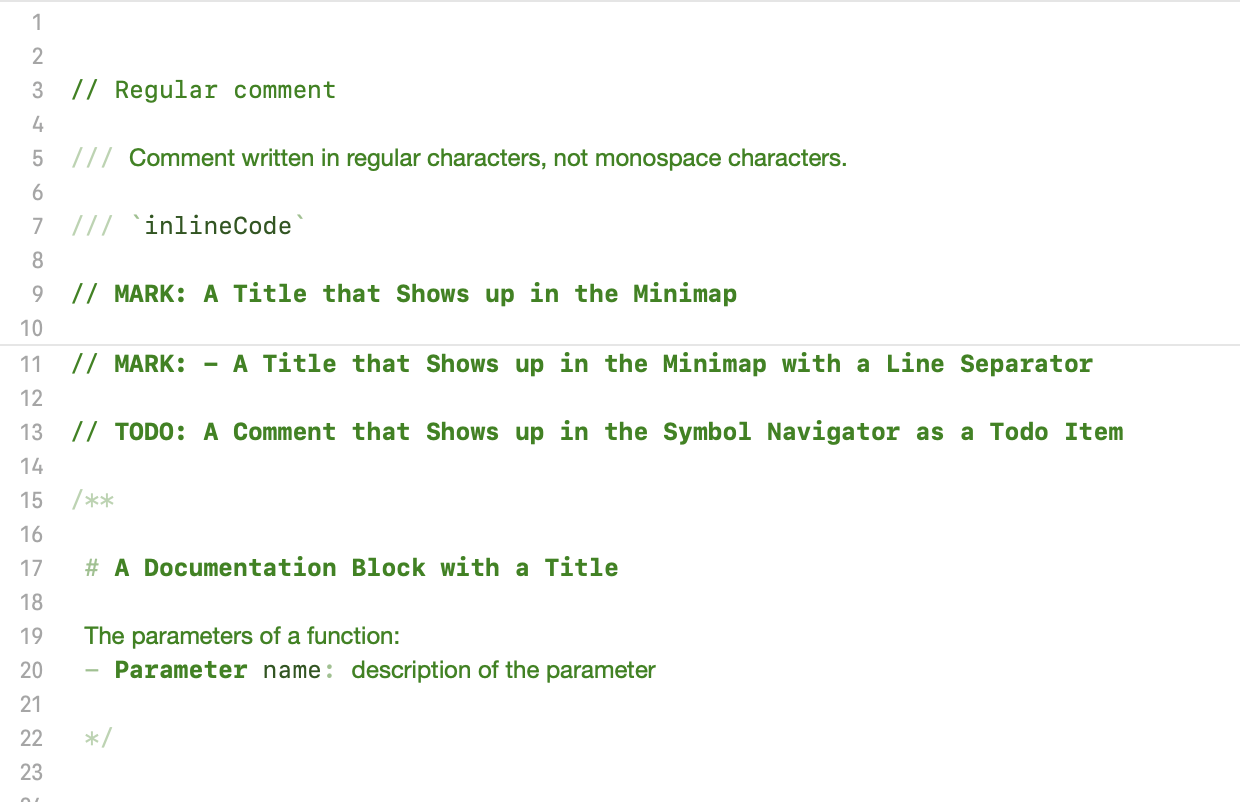
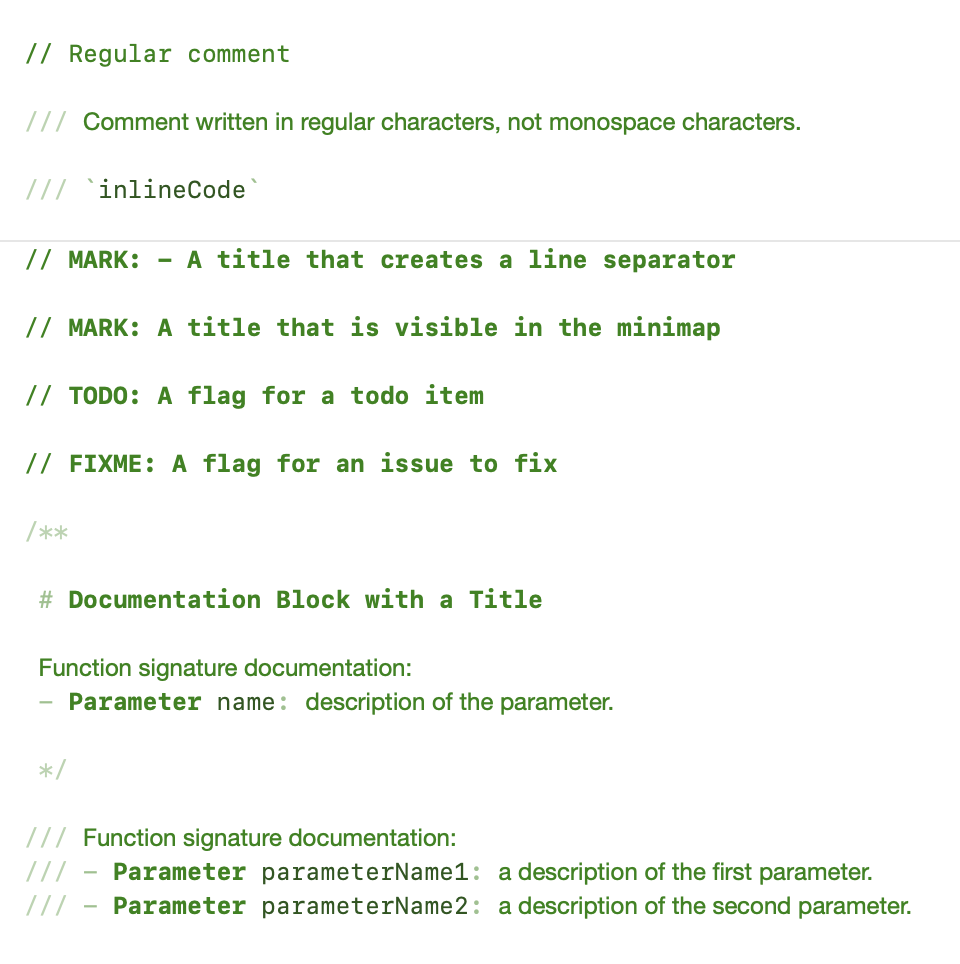
Xcode comments update

diff --git a/README.md b/README.md
@@ -872,7 +872,7 @@ func setupGestureRecognizers(in view: SKView) {
 
 ## Xcode Comments
 
-*9 April 2024, updated 25 January 2025*
+*9 April 2024, updated 16 August 2025*
 
 Xcode provides various ways to style and organize code comments:
 
@@ -883,20 +883,26 @@ Xcode provides various ways to style and organize code comments:
 
 /// `inlineCode`
 
-// MARK: A Title that Shows up in the Minimap
+// MARK: - A title that creates a line separator
 
-// MARK: - A Title that Shows up in the Minimap with a Line Separator
+// MARK: A title that is visible in the minimap
 
-// TODO: A Comment that Shows up in the Symbol Navigator as a Todo Item
+// TODO: A flag for a todo item
+
+// FIXME: A flag for an issue to fix
 
 /**
  
- # A Documentation Block with a Title
+ # Documentation Block with a Title
  
- The parameters of a function:
- - Parameter name: description of the parameter
+ Function signature documentation:
+ - Parameter name: description of the parameter.
  
  */
+ 
+/// Function signature documentation:
+/// - Parameter parameterName1: a description of the first parameter.
+/// - Parameter parameterName2: a description of the second parameter.
 ```
 <p align="center">
 <img src="Screenshots/Xcode - Comments.png" alt="Xcode - Comments" style="width:100%;" />
@@ -1459,6 +1465,7 @@ Sorting a dictionary is useful in scenarios where the unordered nature of dictio
 
 *Started 17 February 2024*
 
+- Command + Shift + O : open quickly (jump to file)
 - Control + I : auto-indent code
 - Control + M : format objects into multiple lines. Useful for function signatures or hierarchical data structures
 - Control + 6 : search your methods and symbols 
